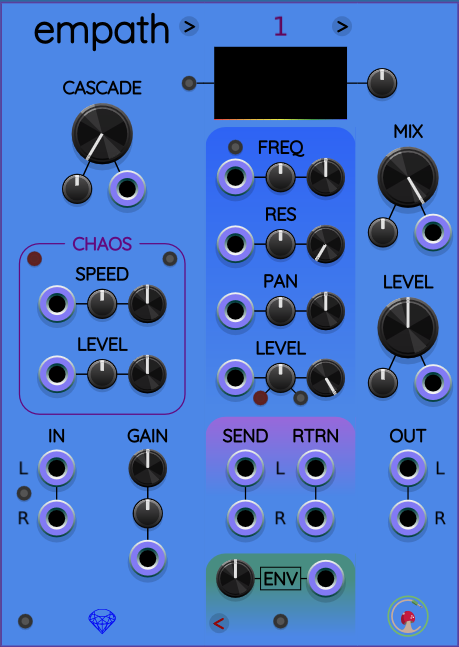
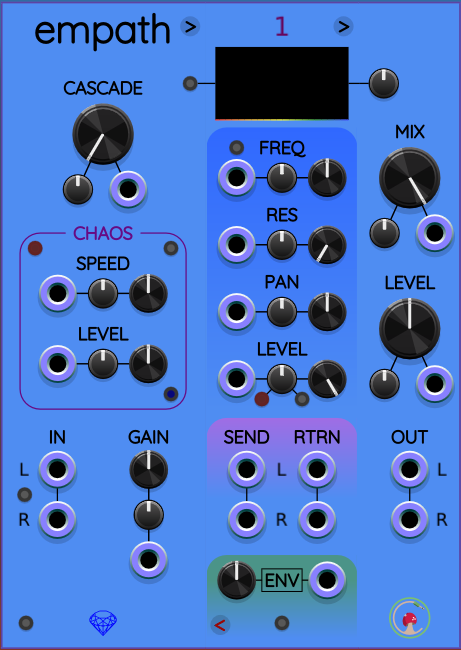
Empath: added a FREEZE button to the CHAOS group.
The new button freezes/unfreezes all the chaos fountains.
This can be used as a performance control, or it can
be used in patches where you know you don't need chaos
and you want to save a little CPU time.

diff --git a/src/empath_vcv.cpp b/src/empath_vcv.cpp
@@ -614,6 +614,7 @@ namespace Sapphire
                 CHAOS_RANDOMIZE_BUTTON_PARAM,
                 INPUT_GAIN_PARAM,
                 INPUT_GAIN_ATTEN,
+                CHAOS_FREEZE_BUTTON_PARAM,
                 PARAMS_LEN
             };
 
@@ -691,6 +692,15 @@ namespace Sapphire
             };
 
 
+            struct ChaosFreezeButton : SapphireTinyToggleButton
+            {
+                explicit ChaosFreezeButton()
+                {
+                    addTinyButtonFrames(this, "blue");
+                }
+            };
+
+
             struct InputModule : EmpathModule
             {
                 bool autoCreateExpanders = true;
@@ -717,6 +727,7 @@ namespace Sapphire
                     configButton(TOGGLE_SPECTRUM_BUTTON_PARAM);
                     configButton(CHAOS_STEREO_BUTTON_PARAM);
                     configButton(CHAOS_RANDOMIZE_BUTTON_PARAM, "Randomize chaotic CV");
+                    configButton(CHAOS_FREEZE_BUTTON_PARAM);
                     InputModule_initialize();
                 }
 
@@ -799,6 +810,22 @@ namespace Sapphire
 
                 void process(const ProcessArgs& args) override
                 {
+                    const double speedKnob = getControlValueChaos(
+                        CHAOS_SPEED_PARAM,
+                        CHAOS_SPEED_ATTEN,
+                        CHAOS_SPEED_CV_INPUT,
+                        speedChaos,
+                        -ChaosOctaveRange,
+                        +ChaosOctaveRange
+                    );
+
+                    const bool isChaosLevelZero =
+                        (params.at(CHAOS_LEVEL_PARAM).getValue() == 0) &&
+                        (params.at(CHAOS_LEVEL_ATTEN).getValue() == 0);
+
+                    const bool isChaosFreezeButtonPressed =
+                        (params.at(CHAOS_FREEZE_BUTTON_PARAM).getValue() == 1);
+
                     ForwardMessage outMessage;
                     outMessage.chainIndex = 1;
                     outMessage.neonMode = neonMode;
@@ -807,14 +834,10 @@ namespace Sapphire
                     outMessage.wetAudio.nchannels = outMessage.dryAudio.nchannels;
                     outMessage.spectrumDisplayMode = getSpectrumDisplayMode();
                     outMessage.interpolatorKind = interpolatorKind;
-                    const double speedKnob = getControlValueChaos(CHAOS_SPEED_PARAM, CHAOS_SPEED_ATTEN, CHAOS_SPEED_CV_INPUT, speedChaos, -ChaosOctaveRange, +ChaosOctaveRange);
                     outMessage.chaos.dt = SimulationTimeIncrement(args.sampleRate, speedKnob);
                     outMessage.chaos.levelKnob = Cube(getControlValueVoltPerOctave(CHAOS_LEVEL_PARAM, CHAOS_LEVEL_ATTEN, CHAOS_LEVEL_CV_INPUT, 0, 2));
                     outMessage.chaos.stereoCrossfade = updateStereoCrossfade(args.sampleRate);
-                    outMessage.chaos.frozen = (
-                        (params.at(CHAOS_LEVEL_PARAM).getValue() == 0) &&
-                        (params.at(CHAOS_LEVEL_ATTEN).getValue() == 0)
-                    );
+                    outMessage.chaos.frozen = isChaosLevelZero || isChaosFreezeButtonPressed;
                     outMessage.chaos.antiClick = chaosAntiClickSmoother.process(args.sampleRate);
                     outMessage.dryAudio.multiply(outMessage.chaos.antiClick);
 
@@ -906,6 +929,7 @@ namespace Sapphire
                     addToggleSpectrumButton();
                     addChaosStereoButton();
                     addChaosRandomButton();
+                    addChaosFreezeButton();
                     addSapphireFlatControlGroup("input_gain", INPUT_GAIN_PARAM, INPUT_GAIN_ATTEN, INPUT_GAIN_CV_INPUT, 3.0, 3.5);
                 }
 
@@ -950,6 +974,12 @@ namespace Sapphire
                     auto button = createParamCentered<ChaosRandomButton>(Vec{}, inputModule, CHAOS_RANDOMIZE_BUTTON_PARAM);
                     button->inputWidget = this;
                     addSapphireParam(button, "chaos_random_button");
+                }
+
+                void addChaosFreezeButton()
+                {
+                    auto button = createParamCentered<ChaosFreezeButton>(Vec{}, inputModule, CHAOS_FREEZE_BUTTON_PARAM);
+                    addSapphireParam(button, "chaos_freeze_button");
                 }
 
                 void drawSpectrumConnectorLine(NVGcontext* vg)
@@ -1001,6 +1031,7 @@ namespace Sapphire
                         // Keep the button's hovertext in sync with its actual state.
                         inputModule->updateToggleButtonTooltip(OUTPUT_CHANNEL_MODE_BUTTON_PARAM, "Stereo mode", "Polyphonic mode");
                         inputModule->updateToggleButtonTooltip(CHAOS_STEREO_BUTTON_PARAM, "Chaos CV: MONO", "Chaos CV: STEREO");
+                        inputModule->updateToggleButtonTooltip(CHAOS_FREEZE_BUTTON_PARAM, "Chaos engine: RUNNING", "Chaos engine: FROZEN");
                         inputModule->updateToggleButtonTooltip(TOGGLE_SPECTRUM_BUTTON_PARAM, "Spectrum graph: MONO", "Spectrum graph: POLYPHONIC");
                         inputModule->updateInsertButtonTooltip(INSERT_BUTTON_PARAM);
                     }

diff --git a/util/make_sapphire_svg.py b/util/make_sapphire_svg.py
@@ -2448,10 +2448,12 @@ def GenerateTinyButton(name:str, step:int, fillColor1:str, fillColor2:str, strok
     panel.append(Circle(xc, yc, r1, strokeColor1, 0.06, fillColor1))
     return Save(panel, svgFileName)
 
-def GenerateMultiTapButtons() -> int:
+def GenerateTinyButtonImages() -> int:
     return (
         GenerateLeftExtenderButton() or
         GenerateRightExtenderButton() or
+        GenerateTinyButton('blue',   0, "#070779", '#353535', '#434343', '#353535') or
+        GenerateTinyButton('blue',   1, "#8ec0f8", "#242b4b", "#354762", '#353535') or
         GenerateTinyButton('green',  0, '#585858', '#353535', '#434343', '#353535') or
         GenerateTinyButton('green',  1, '#4df04d', '#4d904d', '#356235', '#353535') or
         GenerateTinyButton('yellow', 0, '#585858', '#353535', '#434343', '#353535') or
@@ -2468,8 +2470,6 @@ EMPATH_FILTER_HP_WIDTH = 6
 EMPATH_OUTPUT_HP_WIDTH = 4
 EMPATH_AUDIO_PORTS_Y1 = 93.0
 EMPATH_DX_SEND_RETURN = 7.0
-EMPATH_BIG_KNOBS_Y1 = 26.325
-EMPATH_BIG_KNOBS_Y2 = 60.250
 EMPATH_INIT_BUTTON_Y = PANEL_HEIGHT_MM - 5.0
 EMPATH_SPECTRUM_BOX_Y1 = 9.0
 EMPATH_SPECTRUM_BOX_Y2 = EMPATH_SPECTRUM_BOX_Y1 + 14.5
@@ -2490,11 +2490,11 @@ def GenerateEmpathInputPanel(cdict: ControlDict) -> int:
     controls.append(Component('insert_button', xInsertButton, yInsertButton))
     xInputPorts = xGlobalCenter - 4.0
     xInputLabels = xInputPorts - 6.5
-    yChaosSpeed = EMPATH_BIG_KNOBS_Y2
+    yChaosSpeed = 58.0
     dyChaos = 14.0
     yChaosLevel = yChaosSpeed + dyChaos
     yChaosBoxTop = yChaosSpeed - 12.0
-    yChaosBoxBottom = yChaosLevel + 8.0
+    yChaosBoxBottom = yChaosLevel + 9.0
     dxChaosBox = 16.5
     xChaosBoxLeft  = xmid - dxChaosBox
     xChaosBoxRight = xmid + dxChaosBox
@@ -2503,10 +2503,13 @@ def GenerateEmpathInputPanel(cdict: ControlDict) -> int:
     xChaosBoxTextRight = xmid + dxChaosText
     arcRadius = 4.0
     buttonInset = 3.0
+    yCascade = 26.325
     xChaosStereoButton = xChaosBoxRight - buttonInset
     yChaosStereoButton = yChaosBoxTop + buttonInset
     xChaosRandomizeButton = xChaosBoxLeft + buttonInset
     yChaosRandomizeButton = yChaosBoxTop + buttonInset
+    xChaosFreezeButton = xChaosBoxRight - buttonInset
+    yChaosFreezeButton = yChaosBoxBottom - buttonInset
     xSpectrumButton = xInsertButton
     ySpectrumButton = EMPATH_SPECTRUM_BOX_YC
     xInputGainControl = panel.mmWidth - xInputPorts
@@ -2553,12 +2556,10 @@ def GenerateEmpathInputPanel(cdict: ControlDict) -> int:
         controls.append(Component('channel_mode_button', xInputLabels, EMPATH_AUDIO_PORTS_Y1 + DY_STEREO_PORTS/2))
         AddVerticalStereoLabels(controls, 'input', xInputLabels, EMPATH_AUDIO_PORTS_Y1)
         AddVerticalStereoPorts(font, pl, controls, xInputPorts,  EMPATH_AUDIO_PORTS_Y1, 'audio_left_input', 'audio_right_input', 'IN')
-        AddControlGroup(pl, controls, font, 'cascade', 'CASCADE', xmid, EMPATH_BIG_KNOBS_Y1)
+        AddControlGroup(pl, controls, font, 'cascade', 'CASCADE', xmid, yCascade)
 
-        pl.append(CenteredControlTextPath(font, 'CHAOS', xmid, yChaosBoxTop, style=CHAOS_BOX_LABEL_STYLE))
         pl.append(BoxArt())
-        controls.append(Component('chaos_stereo_button', xChaosStereoButton, yChaosStereoButton))
-        controls.append(Component('chaos_random_button', xChaosRandomizeButton, yChaosRandomizeButton))
+        pl.append(CenteredControlTextPath(font, 'CHAOS', xmid, yChaosBoxTop, style=CHAOS_BOX_LABEL_STYLE))
 
         AddFlatControlGroup(pl, controls, xmid, yChaosSpeed, 'cspeed')
         pl.append(CenteredControlTextPath(font, 'SPEED', xmid, yChaosSpeed - MULTITAP_DY_CONTROL_LOOP_LABEL))
@@ -2568,6 +2569,9 @@ def GenerateEmpathInputPanel(cdict: ControlDict) -> int:
 
         controls.append(Component('init_chain_button', 5.0, EMPATH_INIT_BUTTON_Y))
         controls.append(Component('toggle_spectrum_button', xSpectrumButton, ySpectrumButton))
+        controls.append(Component('chaos_stereo_button', xChaosStereoButton, yChaosStereoButton))
+        controls.append(Component('chaos_random_button', xChaosRandomizeButton, yChaosRandomizeButton))
+        controls.append(Component('chaos_freeze_button', xChaosFreezeButton, yChaosFreezeButton))
     return Save(panel, svgFileName)
 
 
@@ -2740,7 +2744,7 @@ def GenerateEmpathPanels(cdict: ControlDict) -> int:
 if __name__ == '__main__':
     cdict:ControlDict = {}
     sys.exit(
-        GenerateMultiTapButtons() or
+        GenerateTinyButtonImages() or
         GenerateMultiTapPanels(cdict) or
         GenerateEmpathPanels(cdict) or
         GenerateChaosPanel(cdict, 'frolic') or

diff --git a/src/sapphire_panel.cpp b/src/sapphire_panel.cpp
@@ -211,14 +211,15 @@ namespace Sapphire
             {"cascade_cv",             {  25.320,   37.325}},
             {"cascade_knob",           {  20.320,   26.325}},
             {"channel_mode_button",    {   4.740,   98.000}},
-            {"chaos_random_button",    {   6.820,   51.250}},
-            {"chaos_stereo_button",    {  33.820,   51.250}},
-            {"clevel_atten",           {  20.320,   74.250}},
-            {"clevel_cv",              {  11.320,   74.250}},
-            {"clevel_knob",            {  29.320,   74.250}},
-            {"cspeed_atten",           {  20.320,   60.250}},
-            {"cspeed_cv",              {  11.320,   60.250}},
-            {"cspeed_knob",            {  29.320,   60.250}},
+            {"chaos_freeze_button",    {  33.820,   78.000}},
+            {"chaos_random_button",    {   6.820,   49.000}},
+            {"chaos_stereo_button",    {  33.820,   49.000}},
+            {"clevel_atten",           {  20.320,   72.000}},
+            {"clevel_cv",              {  11.320,   72.000}},
+            {"clevel_knob",            {  29.320,   72.000}},
+            {"cspeed_atten",           {  20.320,   58.000}},
+            {"cspeed_cv",              {  11.320,   58.000}},
+            {"cspeed_knob",            {  29.320,   58.000}},
             {"init_chain_button",      {   5.000,  123.500}},
             {"input_gain_atten",       {  29.400,  102.000}},
             {"input_gain_cv",          {  29.400,  111.000}},